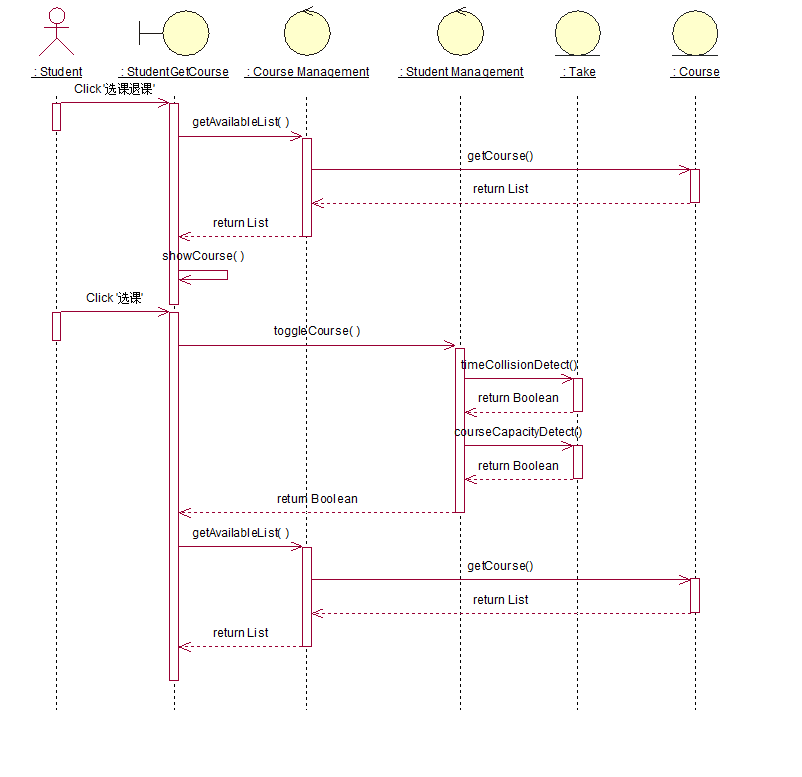
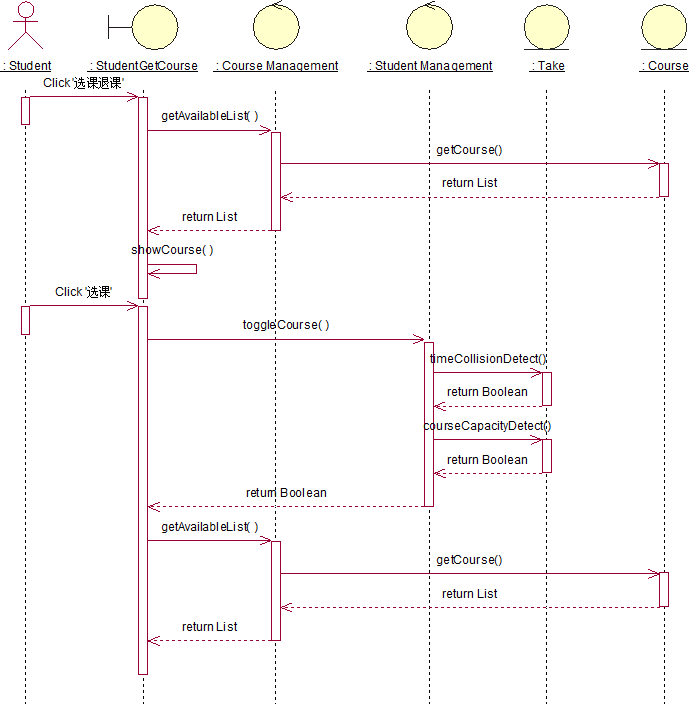
Fixed figures and appendix

diff --git a/divtask.tex b/divtask.tex
@@ -15,8 +15,9 @@
 \newpage
 
 \begin{center}
-  \section{系统开发日志}
+  \section{项目开发使用的技术说明}
 \end{center}
+
 \subsection{系统架构}
 \begin{itemize}
   \item Django Web~框架（项目主页：https://www.djangoproject.com/）
@@ -27,6 +28,12 @@
   
   \CJKindent 本系统前端基于~Bootstrap~模板进行开发。~Bootstrap~是用于快速开发~Web~应用的前端工具包。它是一个~HTML, CSS, JavaScript~的集合，它使用了最新的浏览器技术，给~Web~开发提供了时尚的版式、表单、按钮、表格、网格系统等等。
 \end{itemize}
+
+本系统是一个基于~Web 2.0~架构的系统，前端使用~AJAX (Asynchronous JavaScript and XML)~来动态显示内容和响应用户输入，服务器采用~Django~网络框架处理数据。在处理请求时不返回整个网页而是只返回用~JSON (Javascript Object Notation)~表示的数据，前端框架处理数据并呈现，不刷新整个页面而只更新页面的部分内容。
+
+采用此架构可以节约网格资源，在服务器处理大量情求时（如选课时期），可以节约服务器资源和网络带宽，提高网站的响应速度，减轻服务器负担。
+
+本系统在设计时充分考虑到跨平台的需要，兼容绝大多数主流的浏览器（包含桌面系统与手持设备系统的浏览器），在呈现时自动检测显示区域分辨率，若检测到是手持设备的分辨率，则会显示一个专门优化过的页面，提升用户体验。
 
 \footnotetext[1]{Python~是一种面向对象的解析性编程语言、动态语言，支持命令式程序设计、面向对象程序设计、函数式编程、面向切面编程、泛型编程多种编程范式，具备垃圾回收功能，能够自动管理储存器使用。语言设计的哲学是“用一种方法，最好是只有一种方法来做一件事”，语法简洁少有岐义，代码可读性高。}
 
@@ -43,6 +50,16 @@
   \CJKindent 我们的项目托管于~GitHub~，地址为~https://github.com/zonyitoo/SYSUEduAdminSystem~，使用~Git~版本控制系统来进行版本控制和软件配置管理。
 \end{itemize}
 
+\subsection{数据库}
+我们的项目使用~PostgreSQL~数据库作为数据库后台，~PostgreSQL~是自由的对象-关系数据库服务器（数据库管理系统），在灵活的~BSD~许可证下发行。~PostgreSQL~使用~SQL~语言来在执行资料的查询。这些资料通过连外键联系在一起，以一系列表格的形式存在。~PostgreSQL~相对于竞争者的主要优势，主要的特征为可编程性：对于使用数据库资料的实际应用，~PostgreSQL~让开发与使用的工作，变得更加容易。与PostgreSQl配合的开源软件很多，有很多分布式集群软件，如pgpool、pgcluster、slony、plploxy等等，很容易做读写分离、负载均衡、数据水平拆分等方案。
+
+教务系统经常需要处理高并发情形，~PostgreSQL~是多进程的，在并发不高时处理速度略慢于~MySQL~等多线程数据库，但当并发高的时候，对于现在多核的单台机器上，~PostgreSQL~能利用多核处理器的并发处理优势，整体性能优于其它基于多线程的数据库。
+
+\newpage
+\begin{center}
+  \section{系统开发日志}
+\end{center}
+
 \begin{figure}[H]
    \centering \includegraphics[width=\textwidth]{img/contrib.png}
    \caption{项目成员贡献及项目提交数与时间关系图}
@@ -57,4 +74,8 @@
    \caption{项目代码变化图}
 \end{figure}
 
-图中虚线是代表代码行数的变化与时间的关系，2012年12月23日后代码行数超过了2.6万。中央横线以上的图中，高度代表该时间段增加的代码行数；中央横线以下的图中，高度代表该时间段被删除的代码行数，总体体现了代码增加的速度。
+图中虚线是代表代码行数的变化与时间的关系，2012年12月23日后代码行数超过了2.6万。中央横线以上的图中，高度代表该时间段增加的代码行数；中央横线以下的图中，高度代表该时间段被删除的代码行数，总体体现了代码增加的速度。\vspace{2em}
+
+项目托管主页：https://github.com/zonyitoo/SYSUEduAdminSystem
+
+项目统计图：https://github.com/zonyitoo/SYSUEduAdminSystem/graphs

diff --git a/analysis.tex b/analysis.tex
@@ -372,7 +372,7 @@
     \hline
     培养类别&Category&包括主修、辅修、交换生&\\
     \hline
-    教学评分&Assessment&对教师的授课按照五个等级进行评分\\
+    教学评分&Assessment&对教师的授课按照五个等级进行评分&\\
     \hline
     开课计划&Course Arrangement&课程开设的安排与进度&\\
     \hline
@@ -415,8 +415,8 @@
   \end{itemize}
   
 \begin{thebibliography}{}
-  \bibitem{} Ian S. Software Engineering (9th Edition). China Machine Press. ISBN 978-7-111-33498-9
-  \bibitem{} Adrian H, Jacob K. The Django Book. http://www.djangobook.com/
-  \bibitem{} Mark L. Learning Python. China Machine Press. ISBN 978-7-111-32653-3
-  \bibitem{} Jennifer N. R. Learning Web Design (4th Edition). O'Reilly. ISBN 978-1-449-31927-4
+  \bibitem{} I. Sommerville. Software Engineering (9th Edition). China Machine Press. 
+  \bibitem{} A. Holovaty, J. Kaplan-Moss. The Django Book. http://www.djangobook.com/
+  \bibitem{} M. Lutz. Learning Python. China Machine Press. 
+  \bibitem{} J. N. Robbins. Learning Web Design (4th Edition). O'Reilly. 
 \end{thebibliography}

diff --git a/design.tex b/design.tex
@@ -98,7 +98,7 @@
 图\ref{fig:selectcourse_secquence}是选课用例的时序图
 \begin{figure}[htbp]
   \centering
-  \includegraphics[width=0.7\textwidth]{img/selectcourse_secquence}
+  \includegraphics[width=0.82\textwidth]{img/selectcourse_secquence}
   \caption{选课用例时序图}
   \label{fig:selectcourse_secquence}
 \end{figure}
@@ -116,7 +116,7 @@
 由选课用例的交互过程，可得选课用例分析类关联关系如下：
 \begin{figure}[H]
   \centering
-  \includegraphics[width=\textwidth]{img/selectcourse_depend}
+  \includegraphics[width=0.8\textwidth]{img/selectcourse_depend}
   \caption{选课用例分析类关联关系图}
 \end{figure}
   
